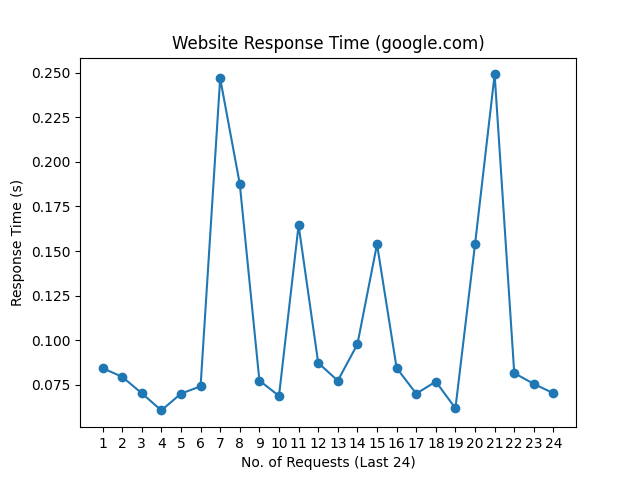
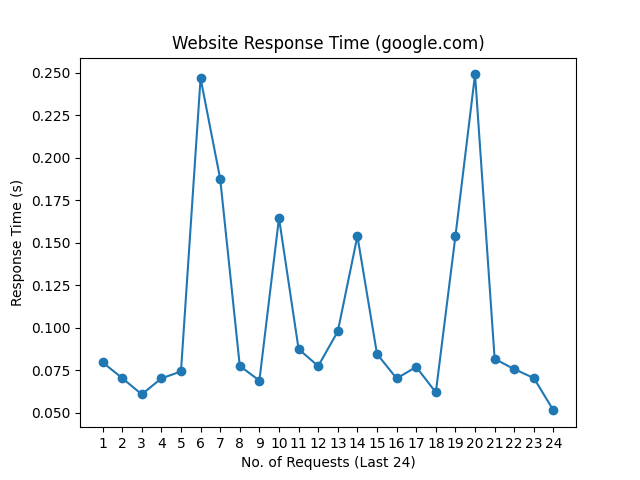
update README.md, history and graph

diff --git a/README.md b/README.md
@@ -1,10 +1,10 @@
 # Web Monitoring
 
-Last Checked: 09/08/2024 08:17
+Last Checked: 10/08/2024 08:17
 
 | Website | Response Time (s) | Status | Avg Uptime (%) |
 |---------|-------------------|--------|----------------|
 | www.thiswebsiteisdown.net | 0 <br> <img src="graph/thiswebsiteisdown.net.png" alt="Graph" width="200" height="200">  | ❌ Down | 0.00 |
-| www.netflix.com | 0.959369 <br> <img src="graph/netflix.com.png" alt="Graph" width="200" height="200">  | ✅ Up | 100.00 |
-| www.google.com | 0.070320 <br> <img src="graph/google.com.png" alt="Graph" width="200" height="200">  | ✅ Up | 100.00 |
-| www.facebook.com | 0.963206 <br> <img src="graph/facebook.com.png" alt="Graph" width="200" height="200">  | ✅ Up | 100.00 |
+| www.netflix.com | 0.766509 <br> <img src="graph/netflix.com.png" alt="Graph" width="200" height="200">  | ✅ Up | 100.00 |
+| www.google.com | 0.051272 <br> <img src="graph/google.com.png" alt="Graph" width="200" height="200">  | ✅ Up | 100.00 |
+| www.facebook.com | 0.203536 <br> <img src="graph/facebook.com.png" alt="Graph" width="200" height="200">  | ✅ Up | 100.00 |
